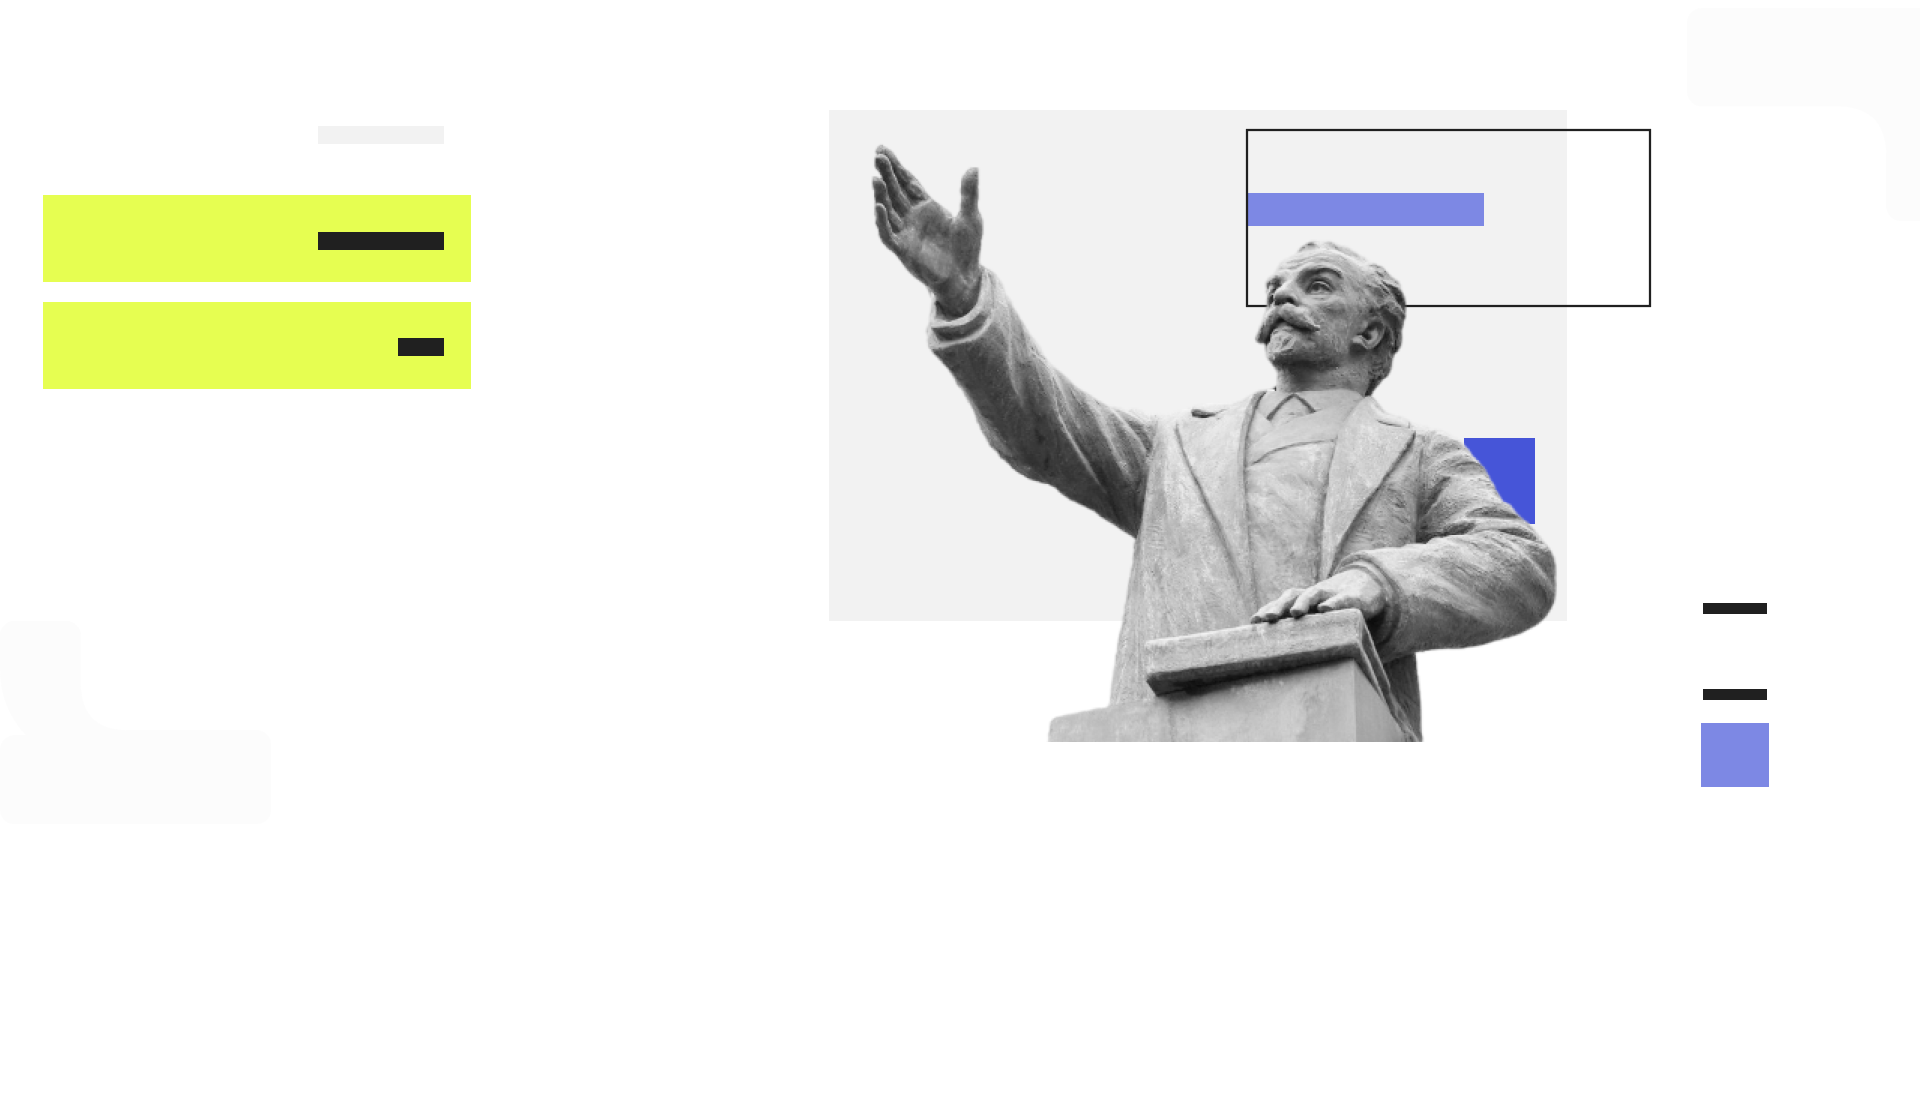
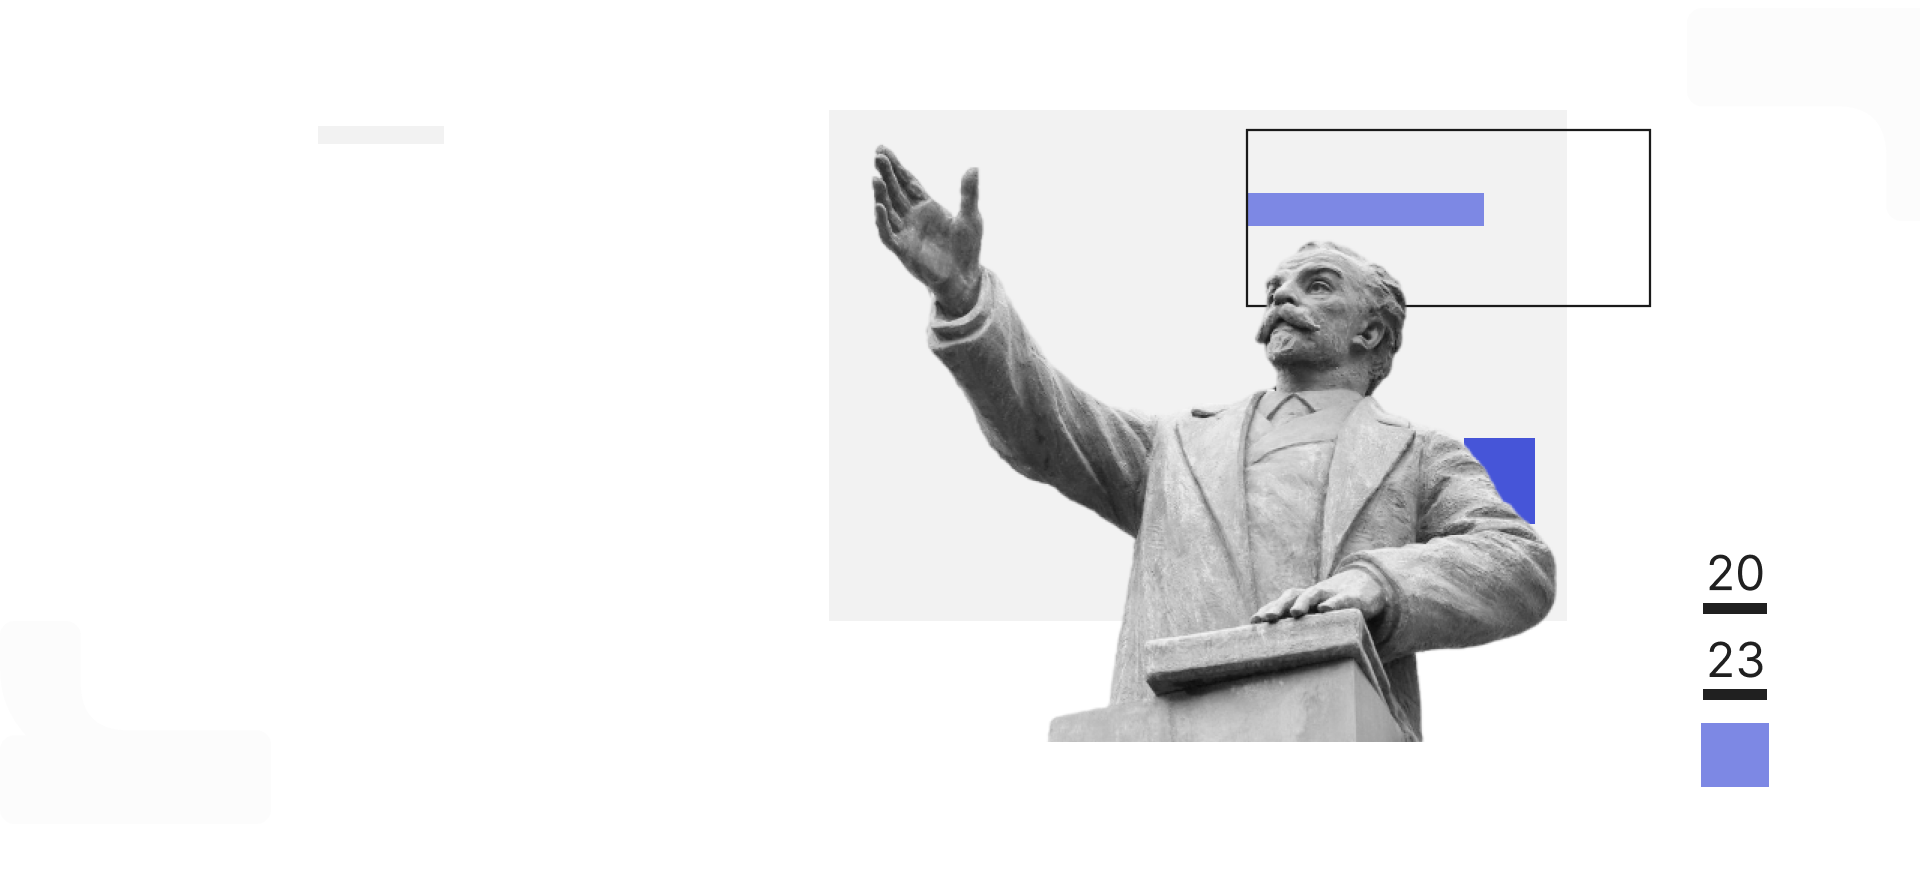
upd

diff --git a/src/index.js b/src/index.js
@@ -1,1 +1,33 @@
 import './pages/index.css';
+
+
+const quotes = ["Не человек для нравственности, а нравственность для человека.", "Искусство выигрывает, отворачиваясь от пошлости. Но когда оно отворачивается от великих исторических движений, оно само проникается элементами пошлости.", "Трудно всякое дело, если только не хочется его делать, легко всякое дело, за которое мы беремся с полным убеждением в его плодотворности и необходимости.", "Прогресс человеческий несет с собой смертельный приговор и религиозной идее, и религиозному чувству.", "Между наукой и жизнью существует теснейшая, неразрывная, ни для одной из них нимало не унизительная связь:чем более наука служит жизни, тем более жизнь обогащает науку.", "Каждое явление действием тех материальных сил, которые обусловливают его существование, рано или поздно, но неизбежно превращается в свою собственную противоположность.", "Искусство выигрывает, отворачиваясь от пошлости. Но когда оно отворачивается от великих исторических движений, оно само проникается элементами пошлости."];
+let textIndex = 0;
+let charIndex = 0;
+let container = document.getElementById("quote-container");
+
+function typeWriter() {
+    if (charIndex < quotes[textIndex].length) {
+        container.innerHTML += quotes[textIndex].charAt(charIndex);
+        charIndex++;
+        setTimeout(typeWriter, 50);
+    } else {
+        setTimeout(deleteText, 1000);
+    }
+}
+
+function deleteText() {
+    if (charIndex > 0) {
+        container.innerHTML = container.innerHTML.slice(0, -1);
+        charIndex--;
+        setTimeout(deleteText, 25);
+    } else {
+        textIndex++;
+        if (textIndex >= quotes.length) {
+            textIndex = 0;
+        }
+        setTimeout(typeWriter, 1000);
+    }
+}
+
+typeWriter();

diff --git a/src/pages/index.css b/src/pages/index.css
@@ -1,6 +1,11 @@
+/* Общие стили */
 @import '../vendor/fonts.css';
 @import '../blocks/root/root.css';
 
+@import '../blocks/title-element/title-element.css';
+@import '../blocks/title-element/_special/title-element_special.css';
+
+/* Стили для header */
 @import '../blocks/header/header.css';
 @import '../blocks/header/__container/header__container.css';
 @import '../blocks/header/__wrapper/header__wrapper.css';
@@ -11,58 +16,7 @@
 @import '../blocks/header/__nav/header__nav.css';
 @import '../blocks/header/__link/header__link.css';
 @import '../blocks/header/__span-accent/header__span-accent.css';
-@import '../blocks/header/__numbers/header__numbers.css';
+@import '../blocks/header/__quote/header__quote.css';
 
-
-.numbers {
-    color: #202020;
-    font-size: 48.133px;
-    padding: 0;
-    margin: 0;
-    position: relative;
-    top: -120px;
-    right: 155px;
-
-}
-
-.services__title {
-    color: #1A1A1A;
-    font-size: 80px;
-    font-weight: 500;
-    max-width: max-content;
-    margin: 0;
-    padding: 0;
-    text-transform: uppercase;
-    position: relative;
-    bottom: 55px;
-    left: 220px;
-}
-
-.services__title::after {
-    content: '01';
-    position: relative;
-    bottom: 50px;
-    color: #1A1A1A;
-    font-size: 30px;
-    font-weight: 500;
-}
-
-.title__element {
-    background: #E6FE51;
-    width: max-content;
-    width: 427px;
-    height: 86.527px;
-}
-
-
-.title__element::after {
-    background: #1a1a1a;
-    content: "";
-    display: block;
-    height: 17px;
-    margin-left: 45px;
-    max-width: 125px;
-    position: relative;
-    top: -60px;
-    left: 225px;
-}
+/* Section Services */
+@import '../blocks/services/__title/services__title.css';

diff --git a/src/index.html b/src/index.html
@@ -10,10 +10,15 @@
 <body class="root">
     <header class="header">
         <div class="header__container">
-            <h1 class="header__title">digital</h1>
-            <div class="header__wrapper">
-                <p class="header__subtitle">отдел технического сопровождения</p>
-                <p class="header__subtitle">управления цифровой трансформации рэу</p>
+            <div class="title-element">
+                <h1 class="header__title">digital</h1>
+
+            </div>
+            <div class="title-element title-element_special">
+                <div class="header__wrapper">
+                    <p class="header__subtitle">отдел технического сопровождения</p>
+                    <p class="header__subtitle">управления цифровой трансформации рэу</p>
+                </div>
             </div>
             <nav class="header__nav">
                 <ul class="header__list">
@@ -40,19 +45,14 @@
                     </li>
                 </ul>
             </nav>
-        </div>
-        <div class="header__numbers">
-            <span class="numbers">20</span>
-            <span class="numbers">23</span>
+            <p class="header__quote" id="quote-container"></p>
         </div>
     </header>
     <main class="page">
         <section class="services">
-            <div class="title__element">
+            <div class="title-element">
                 <h2 class="services__title">услуги</h2>
             </div>
-
-
         </section>
     </main>
     <footer class="footer"></footer>

diff --git a/src/blocks/header/__container/header__container.css b/src/blocks/header/__container/header__container.css
@@ -1,12 +1,10 @@
 .header__container {
     display: grid;
-    grid-template-columns: repeat(2, 1fr);
-    grid-template-rows: repeat(2, 1fr);
     grid-template-areas:
-        "title title"
-        "wrapper nav ";
-    max-width: 692px;
-    margin: 0 0 0 240px;
-    padding-top: 35px;
+        "title . script"
+        "wrapper nav .";
+    grid-template-columns: 570px .9fr 1fr;
+    grid-template-rows: repeat(2, 1fr);
     gap: 20px;
+    margin: 0 auto;
 }

diff --git a/src/blocks/title-element/title-element.css b/src/blocks/title-element/title-element.css
@@ -1,0 +1,23 @@
+.title-element {
+    background: #E6FE51;
+    width: max-content;
+    max-width: 427px;
+    width: 100%;
+    height: 86.527px;
+    align-self: end;
+    grid-area: title;
+    margin-left: 43px;
+}
+
+
+.title-element::after {
+    background: #1a1a1a;
+    content: "";
+    display: block;
+    height: 17px;
+    margin-left: 45px;
+    max-width: 125px;
+    position: relative;
+    top: -60px;
+    left: 225px;
+}

diff --git a/src/blocks/services/__title/services__title.css b/src/blocks/services/__title/services__title.css
@@ -1,4 +1,4 @@
-.header__title {
+.services__title {
     color: #1A1A1A;
     font-size: 80px;
     font-weight: 500;
@@ -9,4 +9,13 @@
     position: relative;
     bottom: 55px;
     left: 220px;
+}
+
+.services__title::after {
+    content: '01';
+    position: relative;
+    bottom: 50px;
+    color: #1A1A1A;
+    font-size: 30px;
+    font-weight: 500;
 }

diff --git a/src/blocks/title-element/_special/title-element_special.css b/src/blocks/title-element/_special/title-element_special.css
@@ -1,0 +1,17 @@
+.title-element_special {
+    grid-area: wrapper;
+    align-self: start;
+}
+
+.title-element_special::after {
+    background: #1a1a1a;
+    content: "";
+    display: block;
+    height: 18px;
+    margin-left: 45px;
+    max-width: 46px;
+    position: relative;
+    top: -200px;
+    left: 300px;
+
+}

diff --git a/src/blocks/header/__quote/header__quote.css b/src/blocks/header/__quote/header__quote.css
@@ -1,0 +1,13 @@
+.header__quote {
+    grid-area: script;
+    max-width: 403px;
+    height: 176px;
+    margin: 14px;
+    padding: 0px 15px 0 10px;
+    box-sizing: border-box;
+    align-self: flex-end;
+    color: #1A1A1A;
+    font-size: 17px;
+    line-height: 115%;
+    font-weight: 500;
+}

diff --git a/src/blocks/header/__wrapper/header__wrapper.css b/src/blocks/header/__wrapper/header__wrapper.css
@@ -2,8 +2,9 @@
     display: flex;
     flex-direction: column;
     grid-area: wrapper;
-    justify-content: flex-start;
-    margin: 0 0 0 30px;
     max-width: 236px;
     gap: 25px;
+    position: relative;
+    bottom: -56px;
+    left: 220px;
 }

diff --git a/src/blocks/header/__nav/header__nav.css b/src/blocks/header/__nav/header__nav.css
@@ -1,7 +1,9 @@
 .header__nav {
-    grid-area: nav;
     border: 2.6px solid #000;
-    max-width: 326px;
+    grid-area: nav;
+    justify-self: self-start;
     max-height: 311px;
-
+    max-width: 326px;
+    position: relative;
+    top: 65px;
 }

diff --git a/src/blocks/header/header.css b/src/blocks/header/header.css
@@ -4,4 +4,7 @@
     background-repeat: no-repeat;
     background-size: cover;
     background-color: #4655D8;
+    height: 90vh;
+    margin-bottom: 70px;
+    background-position: center;
 }

diff --git a/src/blocks/header/__numbers/header__numbers.css b/src/blocks/header/__numbers/header__numbers.css
@@ -4,4 +4,5 @@
     flex-direction: column;
     align-items: flex-end;
     gap: 28px;
+    grid-area: numbes;
 }
